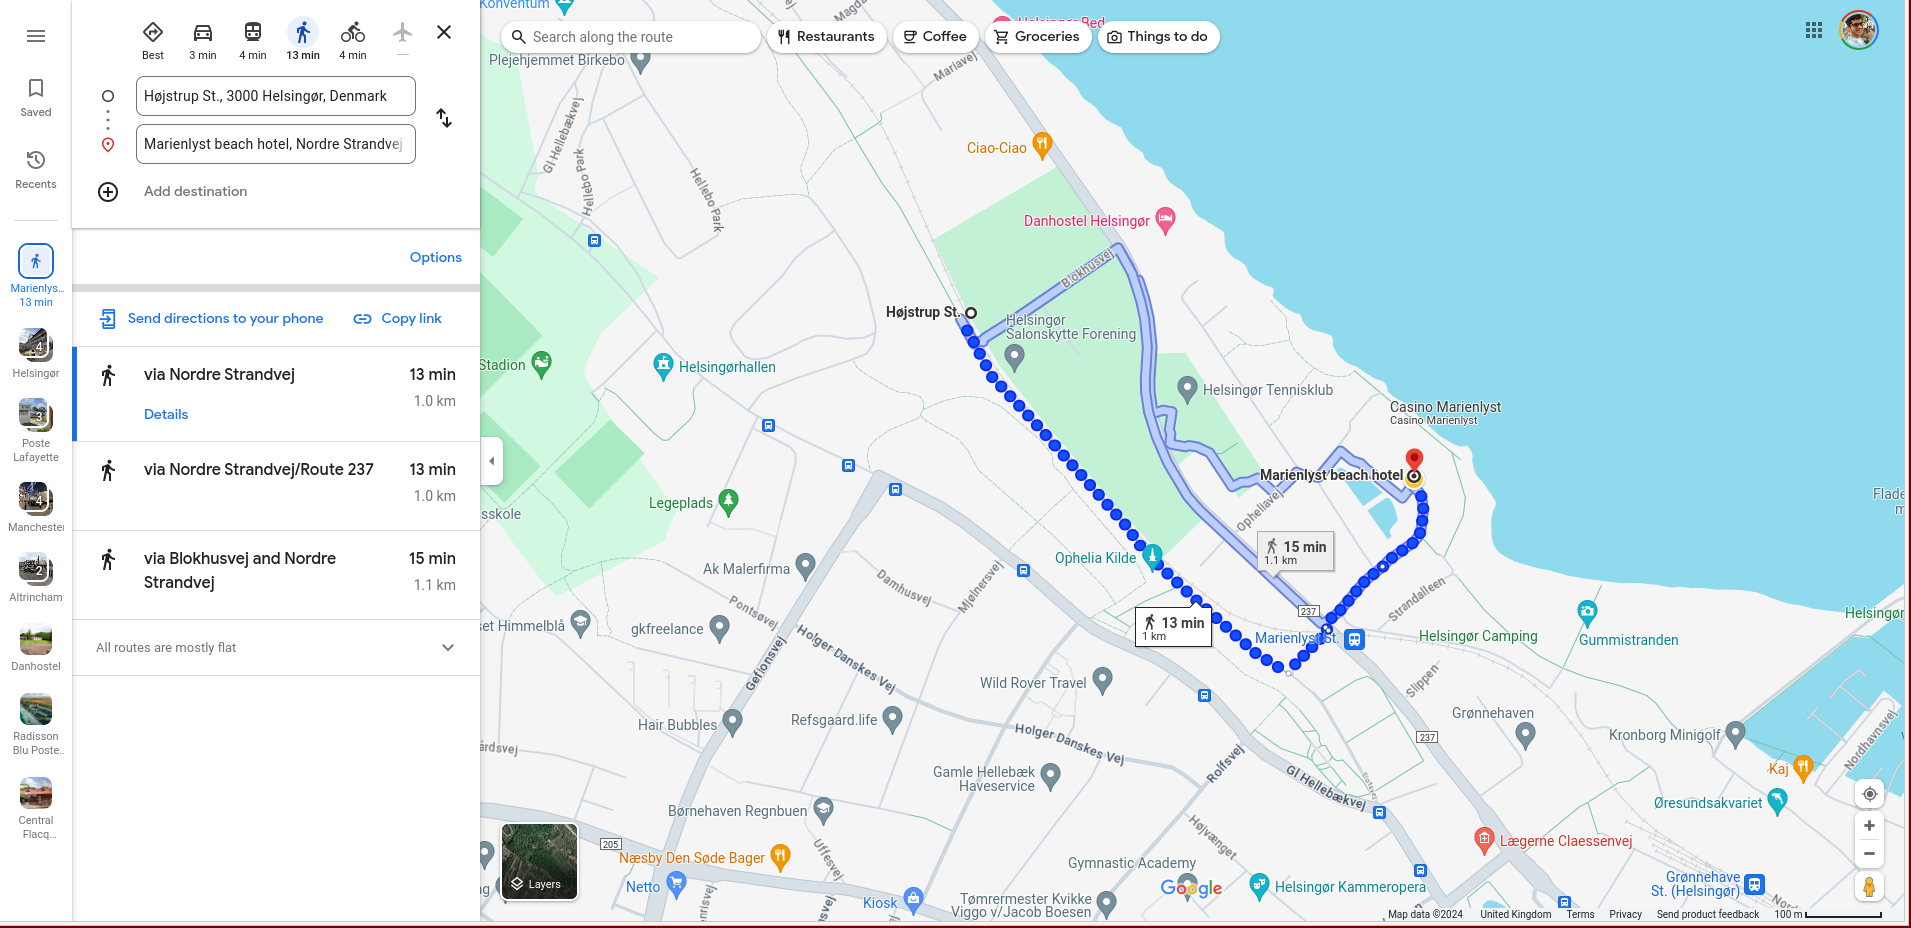
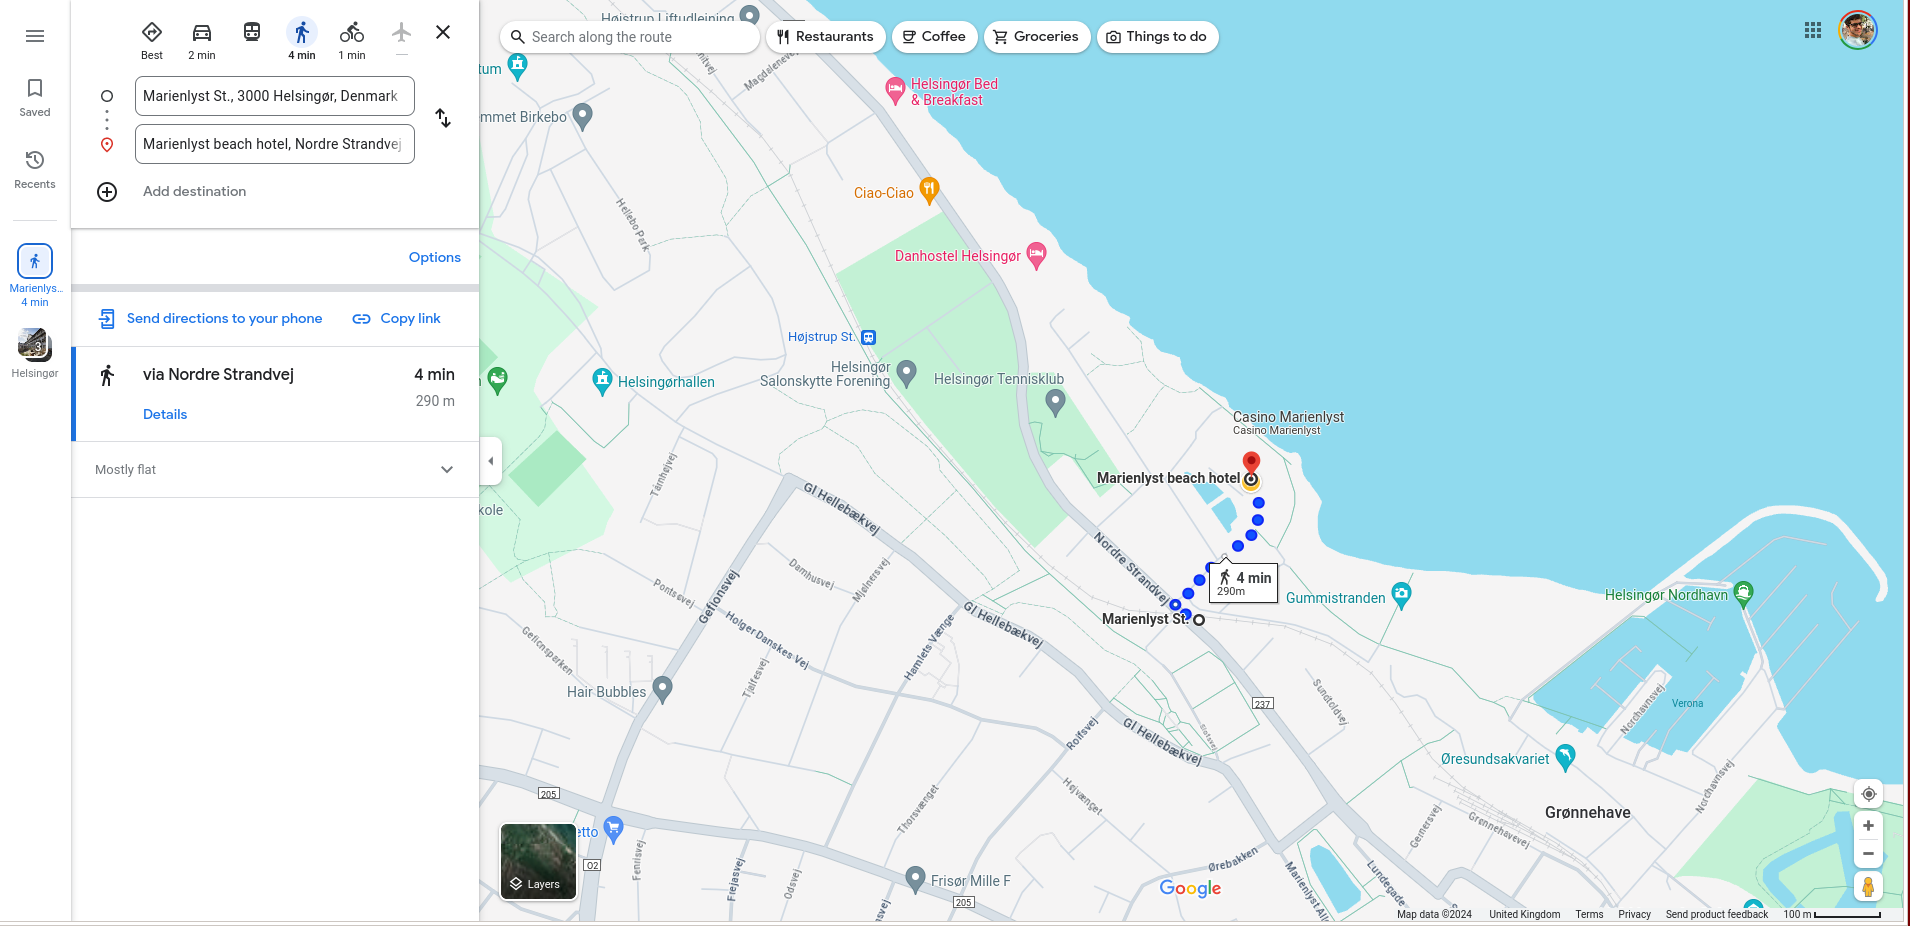
Update directions

diff --git a/travel/index.md b/travel/index.md
@@ -9,7 +9,7 @@ cover: 'assets/images/boat.jpg'
 1. [Helsingør station](#station)
 2. [Accommodation](#accomodation)
 	- [Tram directions from Helsingør station](#tram)
-	- [Walking directions from Højstrup station](#walk)
+	- [Walking directions from Højstrup/Marienlyst station](#walk)
 	- [Maps](#maps)
 
 
@@ -18,17 +18,21 @@ cover: 'assets/images/boat.jpg'
 * Buy a ticket _before_ going to the platform; there are machines in the airport
 * Tickets should be about £10
 * You will need all zones:
-	* If going to Danhostel, definitly get an all zones ticket because it will cover the further onward journey
+	* If going to Danhostel, definitely get an all zones ticket because it will cover the further onward journey
 * The train ride is about 45 mins
 
 
 ### From Helsingør station to Marienlyst or Danhostel<a name="accommodation"></a>
-* Do not leave station, but walk to the far end where trams are
-	* If you can't find them, then ask a stranger where you get on ‘the pig’ (long story) and they will direct
+* Do not leave the station, but walk to the far end where trams are
+	* If you can't find them, then ask a stranger where you get on ‘the pig’ (long story) and they will direct you
 * Get on the tram towards Højstrup St
-* Travel 2 stops (about 4 minutes) and get off at Marienlyst Station
-* The walk is about 5 mins
-	* See the below photo and links from further travel information
+* If you are staying at **Marienlyst**
+	* Travel one stop and get off at Marienlyst Station
+	* The walk to Marienlyst is about 5 mins.
+* If you are staying at **Danhostel**:
+	* Travel two stops and get off at Højstrup Station
+	* The walk to Danhostel is about 5 mins.
+* See the below photo and links for further travel directions
 * If you wish to take a taxi, they are at the front of the station facing the water and ferries
 	* **Note**, Uber is illegal in Denmark, so do not attempt to use it
 
@@ -37,14 +41,17 @@ cover: 'assets/images/boat.jpg'
 	<img src="{{ site.baseurl }}/assets/images/travel/tram.jpeg" height="40%" width="40%">
 </figure> 
 
-#### Walking directions from Højstrup station<a name="walk"></a>
-* Click [here](https://maps.app.goo.gl/mazxUbE2anMex7rf7) for walking directions from Højstrup St. to Marienlyst, or see the map below
+#### Walking directions from Marienlyst/Højstrup station<a name="walk"></a>
+* Click [here](https://maps.app.goo.gl/HAX68m7uEw6vNH499) for walking directions from Marienlyst St. to Marienlyst, or see the map below
 * Click [here](https://maps.app.goo.gl/WzyUocZDuxnV9Lr2A) for walking directions from Højstrup St. to Danhostel, or see the map below
+	* The walk from Danhostel to Marienlyst is about 10 mins. Click [here](https://maps.app.goo.gl/HAX68m7uEw6vNH499) for walking directions
 
-_Marienlyst_
+_Marienlyst St. to Marienlyst_
 <figure><img src="{{ site.baseurl }}/assets/images/travel/marienlyst.png" height="100%" width="100%"></figure>
-_Danhostel_
+_Højstrup St. to Danhostel_
 <figure> <img src="{{ site.baseurl }}/assets/images/travel/danhostel.png" height="100%" width="100%"> </figure> 
+_Danhostel to [Marienlyst_](Marienlyst_)
+<figure> <img src="{{ site.baseurl }}/assets/images/travel/hotel_walk.png" height="100%" width="100%"> </figure> 
 
 #### Maps<a name="maps"></a>
 <iframe src="https://www.google.com/maps/embed?pb=!1m18!1m12!1m3!1d2228.4650957133595!2d12.601030077124932!3d56.04524996942766!2m3!1f0!2f0!3f0!3m2!1i1024!2i768!4f13.1!3m3!1m2!1s0x465231039cf005ed%3A0xea952c9be41ce992!2sMarienlyst%20beach%20hotel!5e0!3m2!1sen!2suk!4v1713781092308!5m2!1sen!2suk" width="600" height="450" style="border:0;" allowfullscreen="" loading="lazy" referrerpolicy="no-referrer-when-downgrade"></iframe>

diff --git a/tourism/index.md b/tourism/index.md
@@ -31,7 +31,7 @@ Here is a non-exhaustive list of suggested things to do in Copenhagen and Helsin
 	* Boardgame cafe/bar
 * [Mikkeller brewery](https://www.visitcopenhagen.com/copenhagen/planning/mikkeller-bar-gdk436646)
 * [https://reffen.dk/](Reffen)
-	* Far to get to, but worth it for the food market and vibe
+	* Far to get to, but worth it for the food market and vibes
 
 ### Helsingør<a name="elsinore"></a>
 * [Kronborg castle](https://www.visitdenmark.com/denmark/things-do/history/kronborg-castle)
